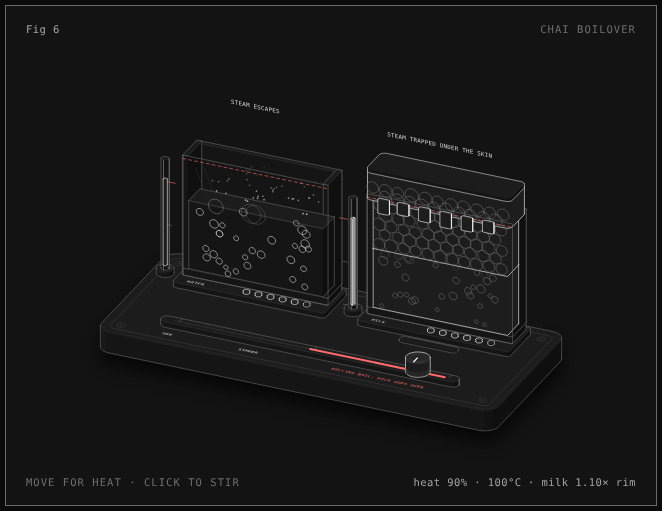
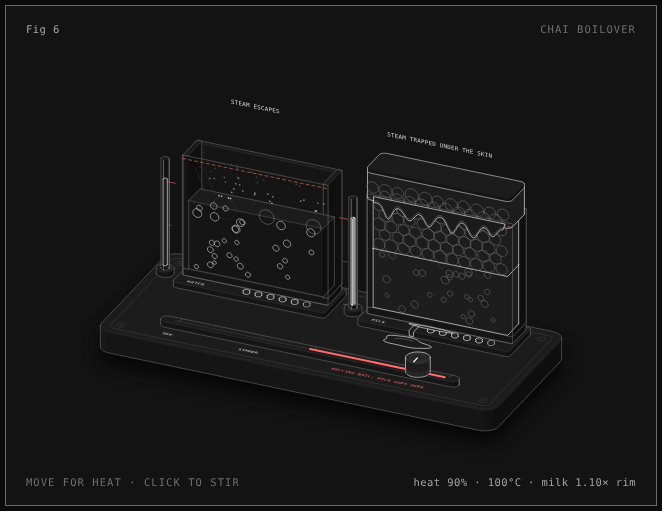
chai-boilover: milk film with rounded tongues, falling drops, pool and puddle
Claude-Session: https://claude.ai/code/session_0144yCtyLospLRx3aH4bbUdG

diff --git a/chai-boilover/chai-boilover-light.html b/chai-boilover/chai-boilover-light.html
@@ -876,7 +876,7 @@ const rnd = (a, b) => a + Math.random() * (b - a);
 
 const start = {"heat":0.9,"water":{"T":100,"skin":0,"foam":0.06888888865277626,"vol":0.62,"spilled":0},"milk":{"T":100,"skin":0.8364661859713445,"foam":0.522104426156154,"vol":0.5727277406334745,"spilled":0.13506359819007266}};
 const pots = { water: Object.assign(newPot(), start.water), milk: Object.assign(newPot(), start.milk) };
-const fx = { water: { bubbles: [], pops: [], steam: [], spawn: 0 }, milk: { bubbles: [], pops: [], steam: [], spawn: 0 } };
+const fx = { water: { bubbles: [], pops: [], steam: [], spawn: 0 }, milk: { bubbles: [], pops: [], steam: [], spawn: 0, drops: [] } };
 let heat = start.heat, target = heat, clock = 16, stirT = 0, time = 0;
 let frame = 0, last = 0, visible = false, touring = !still.matches, idleTimer = 0;
 const el = {};
@@ -947,24 +947,61 @@ function tank(t, pot, hn) {
   }
   return out;
 }
+// the tongues of milk hanging off the rim: where they are and how long
+function tongues(pot, level) {
+  const spill = clamp(pot.spilled / 0.9, 0, 1), over = Math.max(0, level - 1);
+  const list = [-29, -17, -6, 7, 19, 30].map((c, j) => ({ c, s: 3 + 0.9 * Math.abs(Math.sin(j * 1.9)), len: Math.min(24, 1.5 + spill * 22 * (0.3 + 0.7 * Math.abs(Math.sin(j * 2.3 + 1))) + over * 20 + (spill > 0.05 ? 0.7 * Math.sin(time * 1.3 + j * 2) : 0)) }));
+  return { list, base: 1.2 + spill * 1.6 + over * 5 };
+}
+function runoff(pot, dt) {
+  const f = fx.milk, level = levelOf(pot), spill = clamp(pot.spilled / 0.9, 0, 1);
+  if (level > 0.99 && spill > 0.08 && f.drops.length < 6 && Math.random() < dt * (1 + spill * 2)) {
+    const g = tongues(pot, level), tg = g.list[Math.floor(Math.random() * g.list.length)];
+    if (tg.len > 9) f.drops.push({ x: tg.c, z: RIM_Z - g.base - tg.len, vz: 0 });
+  }
+  f.drops = f.drops.filter((d) => { d.vz += 110 * dt; d.z -= d.vz * dt; return d.z > BASE_H + 0.5; });
+}
 function above(t, pot) {
   const milk = t.key === "milk", f = fx[t.key];
   const level = levelOf(pot), top = levelZ(level), x0 = t.x - IX / 2;
   let out = "";
   // steam escaping out of the open top (it is trapped under a skin)
   out += dotsSvg(f.steam.map((s) => { const [px, py] = iso([t.x + s.x, (IY0 + IY1) / 2, s.z], P); return [px, py, 0.9 * (1 - s.t / 1.2)]; }), { size: 0.9, tone: "hi" });
-  // drips and puddle once foam has gone over
-  const spill = clamp(pot.spilled / 0.9, 0, 1), over = Math.max(0, level - 1);
-  if (milk && (spill > 0.01 || over > 0.005)) {
-    const puddle = 0.1 + spill;
-    out += solidSvg(slabOf({ x: t.x - 10 - puddle * 17, y: YF + 11, w: 20 + puddle * 34, d: 3.5 + puddle * 6, r: 1.8 + puddle }, 0, 0.7, P, 8, 0.2), { tone: "mid", crease: "none" });
-    const wet = clamp((level - 0.92) / 0.08, 0, 1);
-    if (wet > 0.02) out += '<g opacity="' + wet.toFixed(2) + '">';
-    [-31, -20, -8, 4, 16, 28].forEach((dx, j) => {
-      const d = Math.min(18, 2 + spill * 14 * (0.35 + 0.65 * Math.abs(Math.sin(j * 2.3 + 1))) + over * 14);
-      if (wet > 0.02) out += solidSvg(slabOf({ x: t.x + dx - 3.2, y: YF + 0.3, w: 6.4, d: 2.2, r: 3.1 }, RIM_Z - d, d + 1, P, 8, 0.4), { tone: "hi", lit: true, crease: "none" });
-    });
-    if (wet > 0.02) out += "</g>";
+  // milk running down the glass, drops off the tips, and the puddle on the plate
+  if (milk) {
+    const spill = clamp(pot.spilled / 0.9, 0, 1), wet = clamp((level - 0.92) / 0.08, 0, 1);
+    const tg = tongues(pot, level);
+    if (wet > 0.02) {
+      const xs = [];
+      for (let x = -IX / 2 + 1; x <= IX / 2 - 1 + 1e-6; x += 1.4) xs.push(x);
+      const bottom = xs.map((x) => [t.x + x, YF + 0.3, RIM_Z - tg.base - tg.list.reduce((a, g) => a + g.len * Math.exp(-Math.pow((x - g.c) / g.s, 2)), 0)]);
+      const topEdge = [[t.x + IX / 2 - 1, YF + 0.3, RIM_Z + 1.2], [t.x - IX / 2 + 1, YF + 0.3, RIM_Z + 1.2]];
+      const outline = pathOf([...bottom, ...topEdge].map((p) => iso(p, P)), true);
+      const inner = pathOf(bottom.map(([x, y, z]) => iso([x, y, z + 1.1], P)));
+      out += '<g opacity="' + wet.toFixed(2) + '"><g class="iso-solid" data-lit=""><path class="iso-fill" d="' + outline + '"/><path class="iso-line iso-edge" data-tone="hi" d="' + outline + '"/></g>' + lineSvg(inner, { tone: "mid", free: true }) + '</g>';
+      out += dotsSvg(fx.milk.drops.map((d) => iso([t.x + d.x, YF + 0.6, d.z], P)), { size: 1.25, tone: "hi" });
+    }
+    if (spill > 0.03) {
+      // milk collects at the foot of the glass, finds the one gap between label and lamps, and runs off the base
+      const px = t.x - 12, pr = 6 + spill * 24;
+      const pool = Array.from({ length: 36 }, (_, i) => { const a = (i / 36) * Math.PI * 2; return iso([t.x - 4 + Math.cos(a) * pr * (1 + 0.06 * Math.sin(4 * a)), YF + 1.9 + Math.sin(a) * (0.9 + spill * 0.8), BASE_H + 0.2], P); });
+      const pd = pathOf(pool, true);
+      out += '<g class="iso-solid" data-lit=""><path class="iso-fill" d="' + pd + '"/><path class="iso-line iso-edge" data-tone="hi" d="' + pd + '"/></g>';
+      if (spill > 0.1) {
+        const face = YF + 9.1, w = 1.2 + spill * 0.5;
+        const run = pathOf([[px - w, YF + 2.5, BASE_H + 0.2], [px + w, YF + 2.5, BASE_H + 0.2], [px + w, face, BASE_H + 0.2], [px + w * 0.8, face, 0.4], [px - w * 0.8, face, 0.4], [px - w, face, BASE_H + 0.2]].map((p) => iso(p, P)), true);
+        out += '<g class="iso-solid" data-lit=""><path class="iso-fill" d="' + run + '"/><path class="iso-line iso-edge" data-tone="hi" d="' + run + '"/></g>';
+      }
+      const rx = 8 + spill * 17, ry = 3.4 + spill * 6, cy = YF + 9.6 + ry * 1.3;
+      const blob = Array.from({ length: 48 }, (_, i) => {
+        const a = (i / 48) * Math.PI * 2, r = 1 + 0.1 * Math.sin(3 * a + 1) + 0.07 * Math.sin(5 * a + 2) + 0.05 * Math.sin(2 * a);
+        return iso([px + Math.cos(a) * rx * r, cy + Math.sin(a) * ry * r, 0.4], P);
+      });
+      const bd = pathOf(blob, true);
+      out += '<g class="iso-solid" data-lit=""><path class="iso-fill" d="' + bd + '"/><path class="iso-line iso-edge" data-tone="hi" d="' + bd + '"/></g>';
+      const gloss = Array.from({ length: 10 }, (_, i) => { const a = 3.6 + (i / 9) * 1.5; return iso([px + Math.cos(a) * rx * 0.6, cy + Math.sin(a) * ry * 0.55, 0.4], P); });
+      out += lineSvg(pathOf(gloss), { tone: "mid", free: true });
+    }
   }
   // the spoon
   if (milk && stirT > 0) {
@@ -1003,6 +1040,7 @@ function tick(now) {
     step(pots.milk, heat, h, "milk");
   }
   for (const t of TANKS) bubbles(t, pots[t.key], dt);
+  runoff(pots.milk, dt);
   stirT = Math.max(0, stirT - dt);
   draw();
   stage.setAttribute("aria-valuenow", String(Math.round(heat * 100)));

diff --git a/chai-boilover/chai-boilover.html b/chai-boilover/chai-boilover.html
@@ -876,7 +876,7 @@ const rnd = (a, b) => a + Math.random() * (b - a);
 
 const start = {"heat":0.9,"water":{"T":100,"skin":0,"foam":0.06888888865277626,"vol":0.62,"spilled":0},"milk":{"T":100,"skin":0.8364661859713445,"foam":0.522104426156154,"vol":0.5727277406334745,"spilled":0.13506359819007266}};
 const pots = { water: Object.assign(newPot(), start.water), milk: Object.assign(newPot(), start.milk) };
-const fx = { water: { bubbles: [], pops: [], steam: [], spawn: 0 }, milk: { bubbles: [], pops: [], steam: [], spawn: 0 } };
+const fx = { water: { bubbles: [], pops: [], steam: [], spawn: 0 }, milk: { bubbles: [], pops: [], steam: [], spawn: 0, drops: [] } };
 let heat = start.heat, target = heat, clock = 16, stirT = 0, time = 0;
 let frame = 0, last = 0, visible = false, touring = !still.matches, idleTimer = 0;
 const el = {};
@@ -947,24 +947,61 @@ function tank(t, pot, hn) {
   }
   return out;
 }
+// the tongues of milk hanging off the rim: where they are and how long
+function tongues(pot, level) {
+  const spill = clamp(pot.spilled / 0.9, 0, 1), over = Math.max(0, level - 1);
+  const list = [-29, -17, -6, 7, 19, 30].map((c, j) => ({ c, s: 3 + 0.9 * Math.abs(Math.sin(j * 1.9)), len: Math.min(24, 1.5 + spill * 22 * (0.3 + 0.7 * Math.abs(Math.sin(j * 2.3 + 1))) + over * 20 + (spill > 0.05 ? 0.7 * Math.sin(time * 1.3 + j * 2) : 0)) }));
+  return { list, base: 1.2 + spill * 1.6 + over * 5 };
+}
+function runoff(pot, dt) {
+  const f = fx.milk, level = levelOf(pot), spill = clamp(pot.spilled / 0.9, 0, 1);
+  if (level > 0.99 && spill > 0.08 && f.drops.length < 6 && Math.random() < dt * (1 + spill * 2)) {
+    const g = tongues(pot, level), tg = g.list[Math.floor(Math.random() * g.list.length)];
+    if (tg.len > 9) f.drops.push({ x: tg.c, z: RIM_Z - g.base - tg.len, vz: 0 });
+  }
+  f.drops = f.drops.filter((d) => { d.vz += 110 * dt; d.z -= d.vz * dt; return d.z > BASE_H + 0.5; });
+}
 function above(t, pot) {
   const milk = t.key === "milk", f = fx[t.key];
   const level = levelOf(pot), top = levelZ(level), x0 = t.x - IX / 2;
   let out = "";
   // steam escaping out of the open top (it is trapped under a skin)
   out += dotsSvg(f.steam.map((s) => { const [px, py] = iso([t.x + s.x, (IY0 + IY1) / 2, s.z], P); return [px, py, 0.9 * (1 - s.t / 1.2)]; }), { size: 0.9, tone: "hi" });
-  // drips and puddle once foam has gone over
-  const spill = clamp(pot.spilled / 0.9, 0, 1), over = Math.max(0, level - 1);
-  if (milk && (spill > 0.01 || over > 0.005)) {
-    const puddle = 0.1 + spill;
-    out += solidSvg(slabOf({ x: t.x - 10 - puddle * 17, y: YF + 11, w: 20 + puddle * 34, d: 3.5 + puddle * 6, r: 1.8 + puddle }, 0, 0.7, P, 8, 0.2), { tone: "mid", crease: "none" });
-    const wet = clamp((level - 0.92) / 0.08, 0, 1);
-    if (wet > 0.02) out += '<g opacity="' + wet.toFixed(2) + '">';
-    [-31, -20, -8, 4, 16, 28].forEach((dx, j) => {
-      const d = Math.min(18, 2 + spill * 14 * (0.35 + 0.65 * Math.abs(Math.sin(j * 2.3 + 1))) + over * 14);
-      if (wet > 0.02) out += solidSvg(slabOf({ x: t.x + dx - 3.2, y: YF + 0.3, w: 6.4, d: 2.2, r: 3.1 }, RIM_Z - d, d + 1, P, 8, 0.4), { tone: "hi", lit: true, crease: "none" });
-    });
-    if (wet > 0.02) out += "</g>";
+  // milk running down the glass, drops off the tips, and the puddle on the plate
+  if (milk) {
+    const spill = clamp(pot.spilled / 0.9, 0, 1), wet = clamp((level - 0.92) / 0.08, 0, 1);
+    const tg = tongues(pot, level);
+    if (wet > 0.02) {
+      const xs = [];
+      for (let x = -IX / 2 + 1; x <= IX / 2 - 1 + 1e-6; x += 1.4) xs.push(x);
+      const bottom = xs.map((x) => [t.x + x, YF + 0.3, RIM_Z - tg.base - tg.list.reduce((a, g) => a + g.len * Math.exp(-Math.pow((x - g.c) / g.s, 2)), 0)]);
+      const topEdge = [[t.x + IX / 2 - 1, YF + 0.3, RIM_Z + 1.2], [t.x - IX / 2 + 1, YF + 0.3, RIM_Z + 1.2]];
+      const outline = pathOf([...bottom, ...topEdge].map((p) => iso(p, P)), true);
+      const inner = pathOf(bottom.map(([x, y, z]) => iso([x, y, z + 1.1], P)));
+      out += '<g opacity="' + wet.toFixed(2) + '"><g class="iso-solid" data-lit=""><path class="iso-fill" d="' + outline + '"/><path class="iso-line iso-edge" data-tone="hi" d="' + outline + '"/></g>' + lineSvg(inner, { tone: "mid", free: true }) + '</g>';
+      out += dotsSvg(fx.milk.drops.map((d) => iso([t.x + d.x, YF + 0.6, d.z], P)), { size: 1.25, tone: "hi" });
+    }
+    if (spill > 0.03) {
+      // milk collects at the foot of the glass, finds the one gap between label and lamps, and runs off the base
+      const px = t.x - 12, pr = 6 + spill * 24;
+      const pool = Array.from({ length: 36 }, (_, i) => { const a = (i / 36) * Math.PI * 2; return iso([t.x - 4 + Math.cos(a) * pr * (1 + 0.06 * Math.sin(4 * a)), YF + 1.9 + Math.sin(a) * (0.9 + spill * 0.8), BASE_H + 0.2], P); });
+      const pd = pathOf(pool, true);
+      out += '<g class="iso-solid" data-lit=""><path class="iso-fill" d="' + pd + '"/><path class="iso-line iso-edge" data-tone="hi" d="' + pd + '"/></g>';
+      if (spill > 0.1) {
+        const face = YF + 9.1, w = 1.2 + spill * 0.5;
+        const run = pathOf([[px - w, YF + 2.5, BASE_H + 0.2], [px + w, YF + 2.5, BASE_H + 0.2], [px + w, face, BASE_H + 0.2], [px + w * 0.8, face, 0.4], [px - w * 0.8, face, 0.4], [px - w, face, BASE_H + 0.2]].map((p) => iso(p, P)), true);
+        out += '<g class="iso-solid" data-lit=""><path class="iso-fill" d="' + run + '"/><path class="iso-line iso-edge" data-tone="hi" d="' + run + '"/></g>';
+      }
+      const rx = 8 + spill * 17, ry = 3.4 + spill * 6, cy = YF + 9.6 + ry * 1.3;
+      const blob = Array.from({ length: 48 }, (_, i) => {
+        const a = (i / 48) * Math.PI * 2, r = 1 + 0.1 * Math.sin(3 * a + 1) + 0.07 * Math.sin(5 * a + 2) + 0.05 * Math.sin(2 * a);
+        return iso([px + Math.cos(a) * rx * r, cy + Math.sin(a) * ry * r, 0.4], P);
+      });
+      const bd = pathOf(blob, true);
+      out += '<g class="iso-solid" data-lit=""><path class="iso-fill" d="' + bd + '"/><path class="iso-line iso-edge" data-tone="hi" d="' + bd + '"/></g>';
+      const gloss = Array.from({ length: 10 }, (_, i) => { const a = 3.6 + (i / 9) * 1.5; return iso([px + Math.cos(a) * rx * 0.6, cy + Math.sin(a) * ry * 0.55, 0.4], P); });
+      out += lineSvg(pathOf(gloss), { tone: "mid", free: true });
+    }
   }
   // the spoon
   if (milk && stirT > 0) {
@@ -1003,6 +1040,7 @@ function tick(now) {
     step(pots.milk, heat, h, "milk");
   }
   for (const t of TANKS) bubbles(t, pots[t.key], dt);
+  runoff(pots.milk, dt);
   stirT = Math.max(0, stirT - dt);
   draw();
   stage.setAttribute("aria-valuenow", String(Math.round(heat * 100)));
